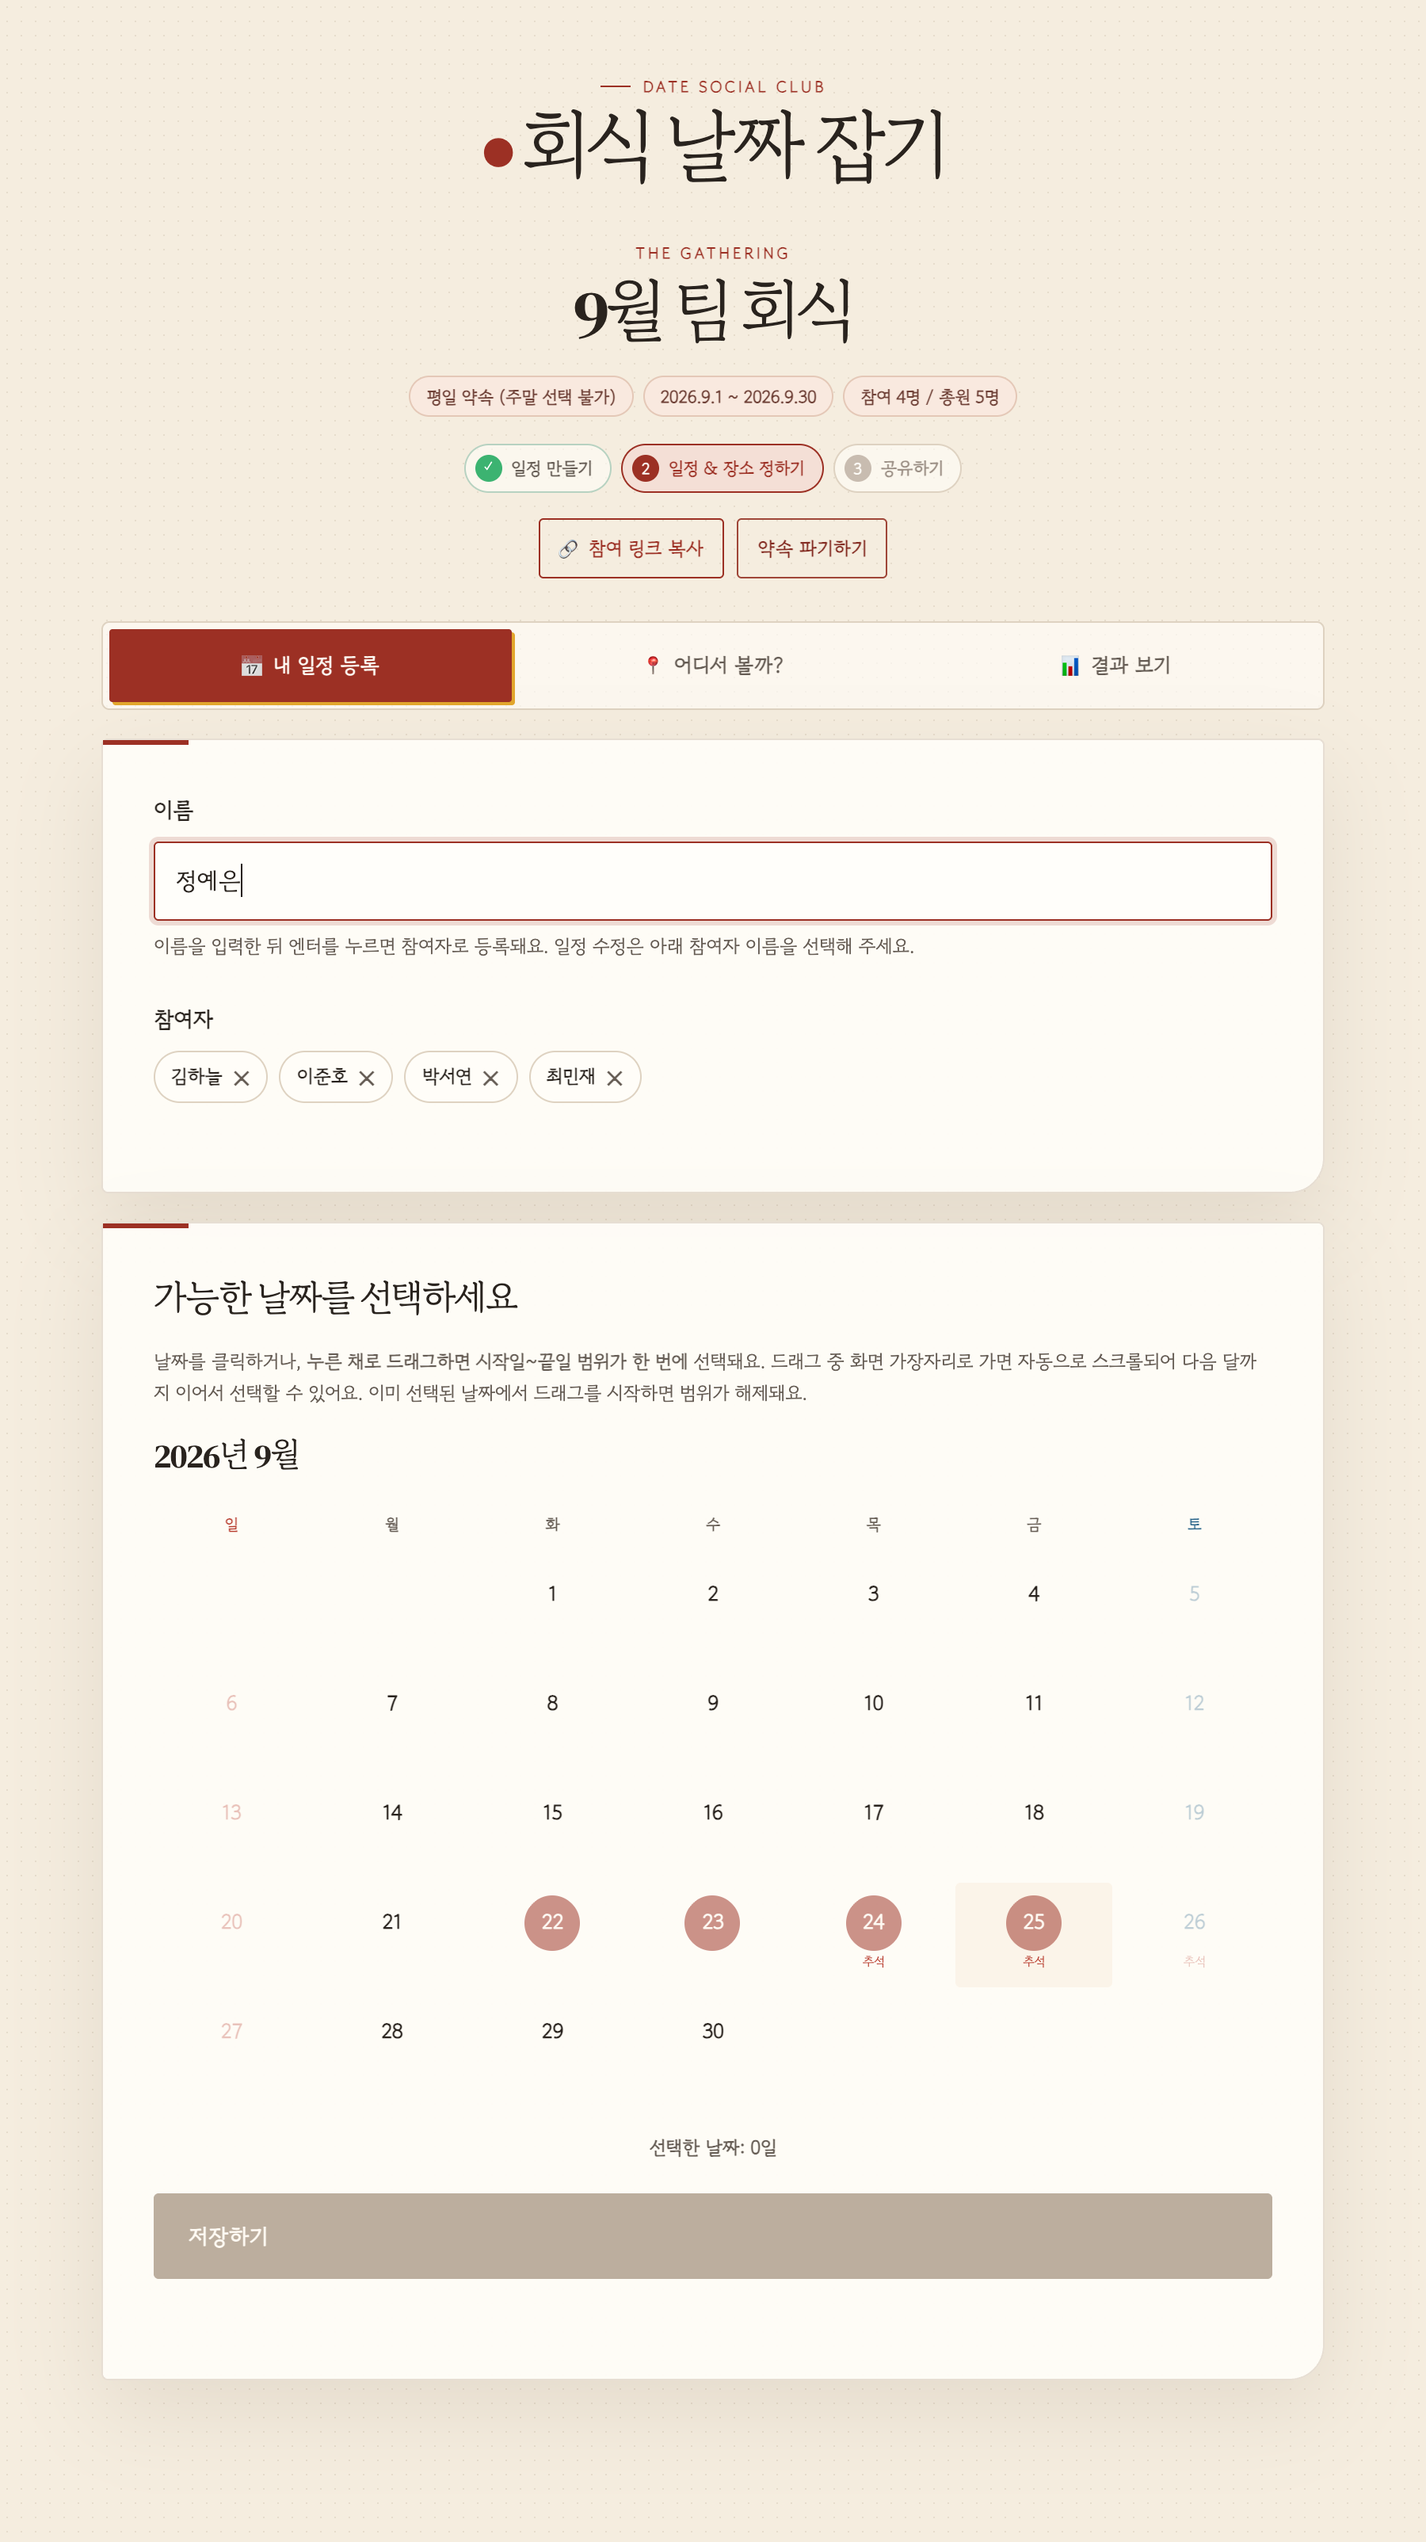
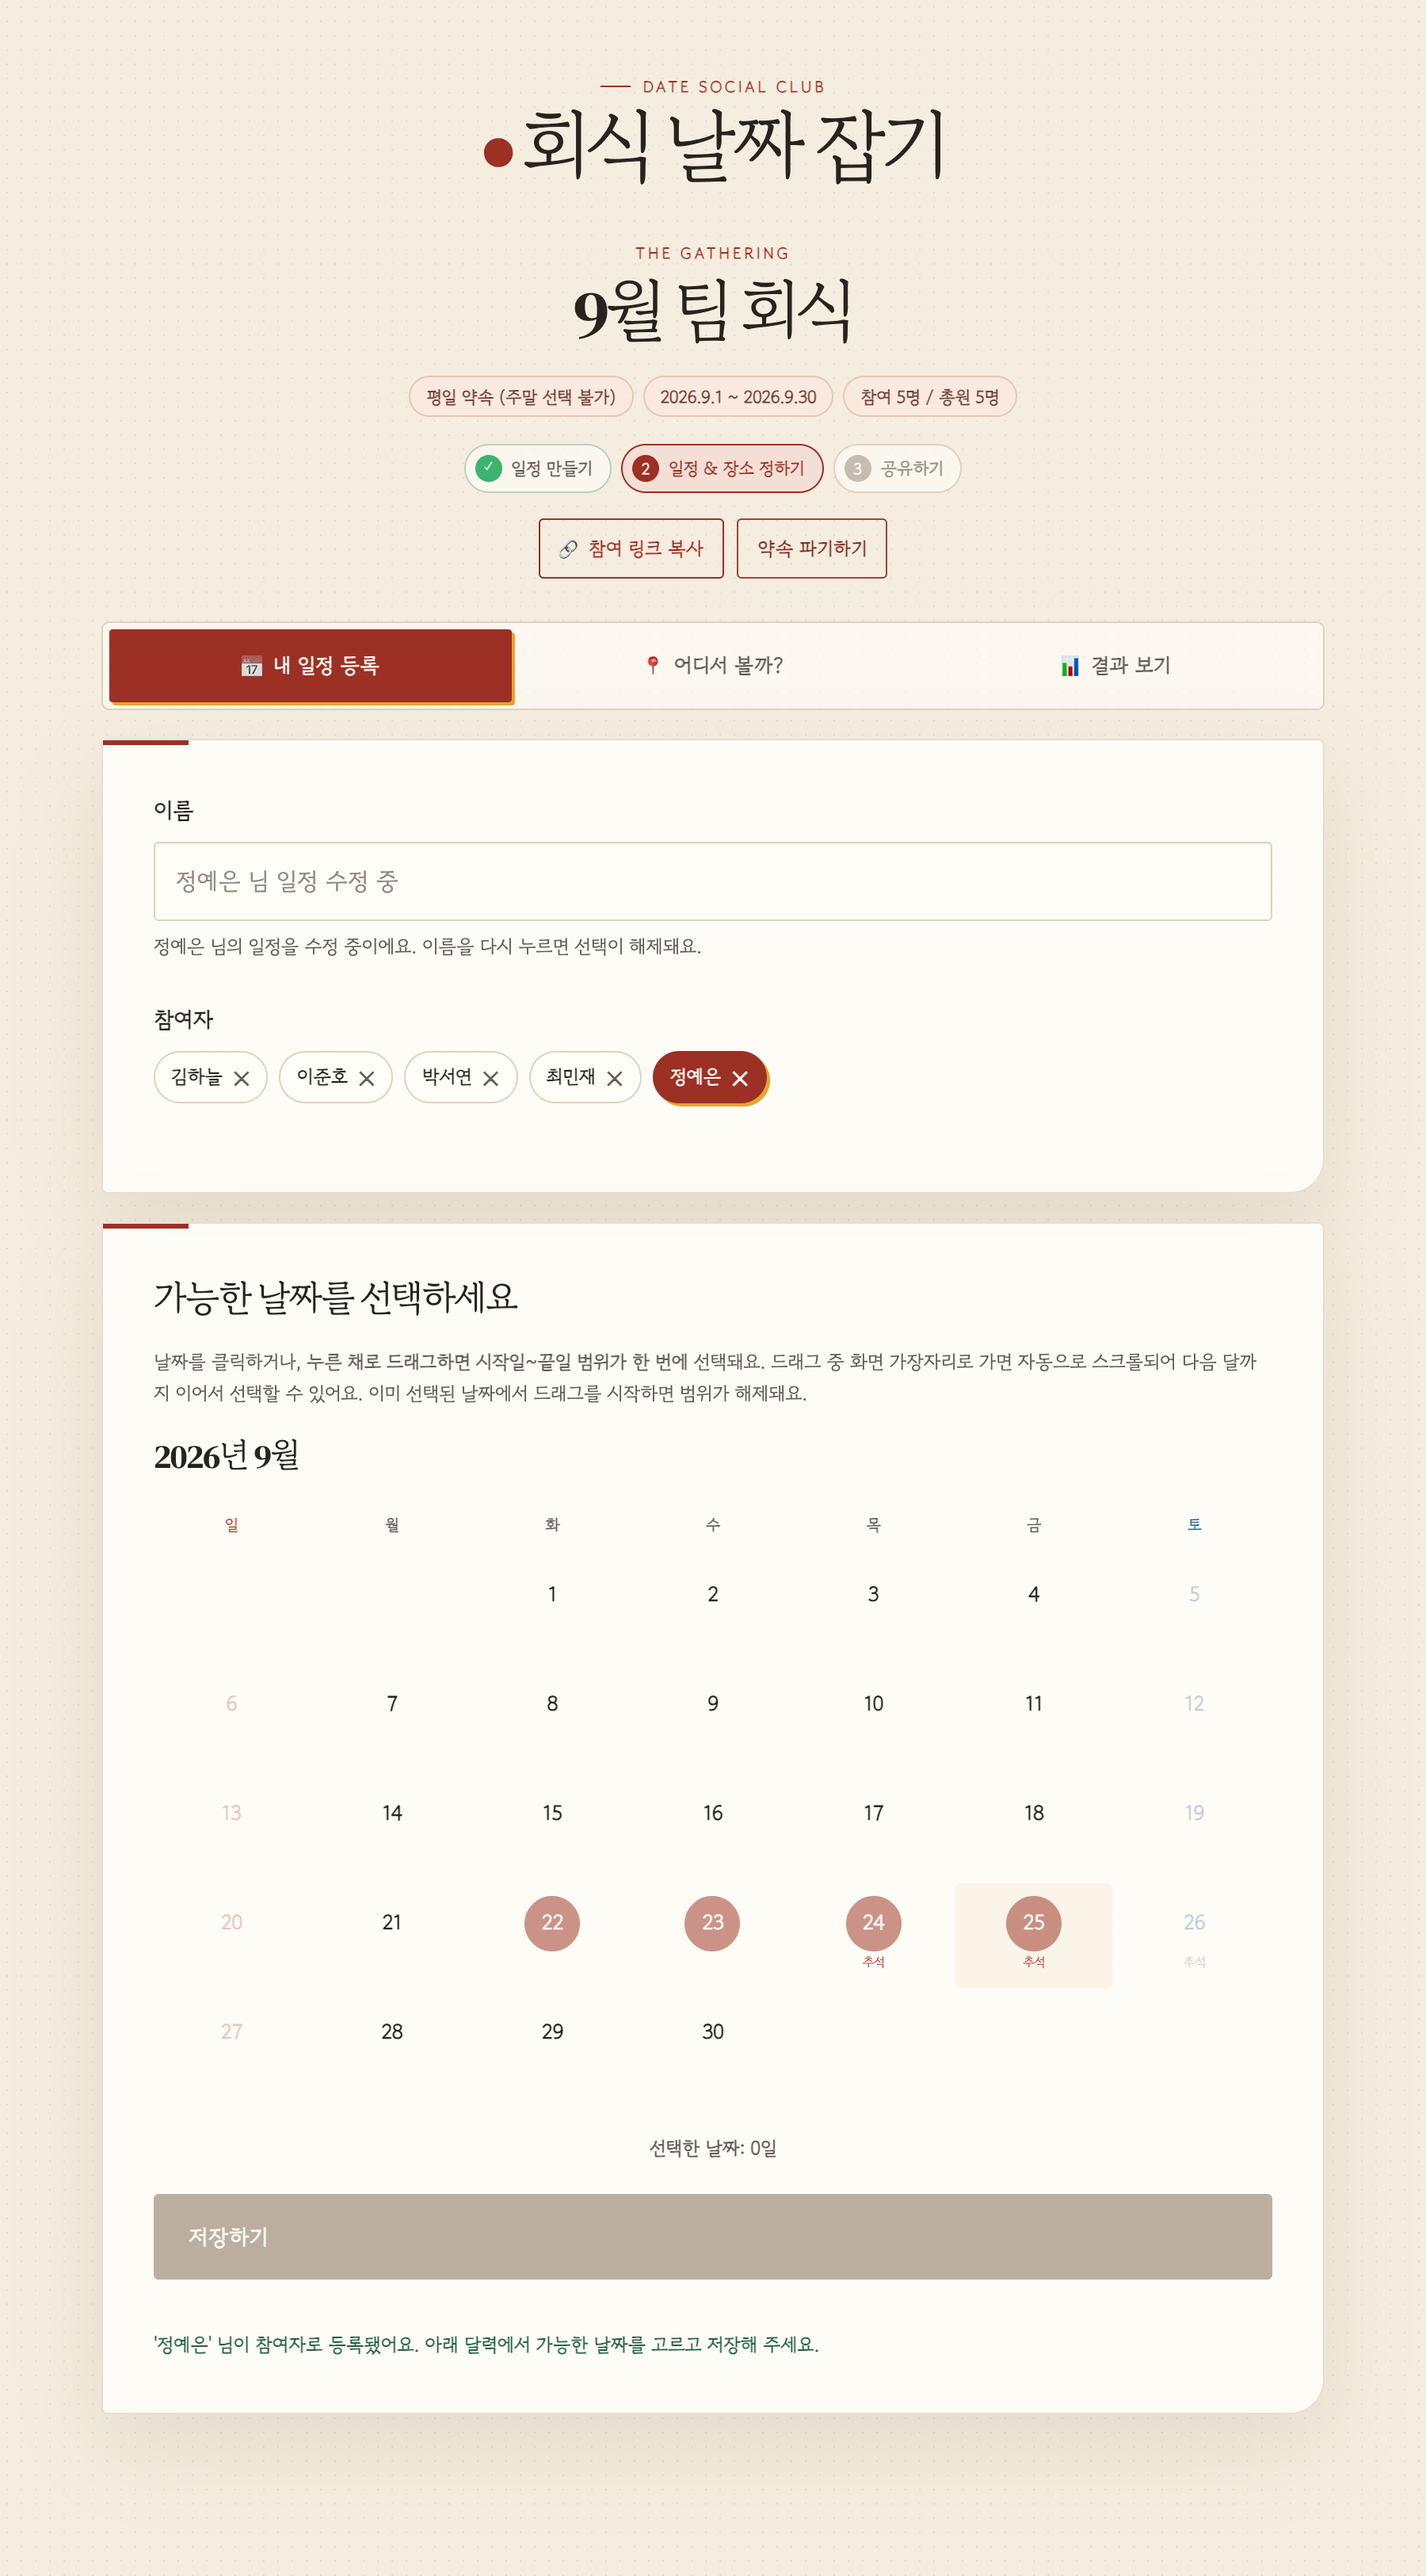
일정 등록 온보딩 개선: 참여자 선택 시에만 날짜 달력 표시
- 일정 등록 탭 진입 시 날짜 선택 달력을 숨기고, 이름 입력 후
  Enter로 등록하면 그 참여자가 자동 선택되며 달력이 열린다
- 선택된 참여자 칩을 다시 누르면 선택이 해제되고 달력이 닫힌다
  (삭제·원격 삭제·저장 완료 시에도 동일하게 정리)
- 달력 표시가 참여자 선택과 묶이면서 canSelect/저장 조건을
  참여자 선택 기준으로 단순화, 숨김 상태에서 플로팅 저장 바가
  뜨지 않도록 보정, 캡처 시나리오를 새 흐름에 맞게 수정

Claude-Session: https://claude.ai/code/session_018FYPPB8ih5HsNu38NPAV2M

diff --git a/public/js/event.js b/public/js/event.js
@@ -222,19 +222,19 @@ function syncNameInputState() {
   nameInput.disabled = atCapacity;
   if (activeParticipantName) {
     nameInput.placeholder = `${activeParticipantName} 님 일정 수정 중`;
-    hint.textContent = `${activeParticipantName} 님의 일정을 수정 중이에요. 선택한 날짜를 저장하면 반영됩니다.`;
+    hint.textContent = `${activeParticipantName} 님의 일정을 수정 중이에요. 이름을 다시 누르면 선택이 해제돼요.`;
   } else if (atCapacity) {
     nameInput.value = '';
     nameInput.placeholder = '총원 등록 완료';
     hint.textContent = `총원 ${eventData.totalCount}명이 모두 등록됐어요. 참여자 이름을 선택하면 일정을 수정할 수 있어요.`;
   } else {
     nameInput.placeholder = '이름을 입력하세요';
-    hint.textContent = '이름을 입력한 뒤 엔터를 누르면 참여자로 등록돼요. 일정 수정은 아래 참여자 이름을 선택해 주세요.';
+    hint.textContent = '이름을 입력하고 엔터를 누르면 참여자로 등록되고, 바로 날짜를 고를 수 있어요. 등록된 일정은 참여자 이름을 눌러 수정해요.';
   }
 }
 
 function updateSaveState() {
-  const hasScheduleOwner = Boolean(activeParticipantName || $('name').value.trim());
+  const hasScheduleOwner = Boolean(activeParticipantName);
   const hasSelectedDates = voteCal && voteCal.selected.size > 0;
   const disabled = !hasScheduleOwner || !hasSelectedDates;
   $('save-btn').disabled = disabled;
@@ -414,20 +414,14 @@ async function saveMySchedule() {
     if (dates.length > 0) {
       // 다음 사람이 이어서 등록할 수 있게 이름과 선택을 즉시 비운다.
       $('name').value = '';
-      activeParticipantName = null;
-      voteCal.setSelected([]);
-      renderVotePeople();
-      syncNameInputState();
-      updateSelectedCount(0);
+      deactivateParticipant();
       switchTab('result');
     } else {
-      // 날짜 없이 엔터 등록한 뒤에는 이름 입력칸을 비우고, 참여자 뱃지로 일정 수정을 시작한다.
+      // 날짜 없이 엔터로 등록하면 그 사람을 바로 선택해 달력이 열리게 한다.
       $('name').value = '';
       activeParticipantName = null;
-      renderVotePeople();
-      syncNameInputState();
-      voteCal.render();
-      infoEl.textContent = `'${name}' 님이 참여자로 등록됐어요. 이름 뱃지를 선택해 가능한 날짜를 등록해 주세요.`;
+      activateParticipant(name);
+      infoEl.textContent = `'${name}' 님이 참여자로 등록됐어요. 아래 달력에서 가능한 날짜를 고르고 저장해 주세요.`;
     }
   } catch (err) {
     errorEl.textContent = err.message;
@@ -437,7 +431,28 @@ async function saveMySchedule() {
   }
 }
 
+// 날짜 선택 달력은 참여자가 선택돼 있을 때만 보여준다. (처음 온 사람이 헤매지 않도록)
+function syncCalendarVisibility() {
+  const hiddenNow = !activeParticipantName;
+  $('vote-calendar-card').hidden = hiddenNow;
+  if (hiddenNow) $('float-save').hidden = true;
+}
+
+function deactivateParticipant() {
+  activeParticipantName = null;
+  voteCal.setSelected([]);
+  renderVotePeople();
+  syncNameInputState();
+  updateSelectedCount(0);
+  syncCalendarVisibility();
+}
+
 function activateParticipant(name) {
+  // 이미 선택된 참여자를 다시 누르면 선택이 해제된다.
+  if (activeParticipantName === name) {
+    deactivateParticipant();
+    return;
+  }
   const participant = eventData.participants.find((p) => p.name === name);
   if (!participant) return;
 
@@ -447,6 +462,8 @@ function activateParticipant(name) {
   renderVotePeople();
   syncNameInputState();
   updateSelectedCount(participant.dates.length);
+  syncCalendarVisibility();
+  voteCal.render();
 }
 
 async function deleteParticipant(name) {
@@ -458,6 +475,7 @@ async function deleteParticipant(name) {
       activeParticipantName = null;
       $('name').value = '';
       voteCal.setSelected([]);
+      syncCalendarVisibility();
     }
     renderHead();
     renderVotePeople();
@@ -1429,6 +1447,10 @@ let syncStopped = false;
 // 서버 데이터에서 오는 화면만 다시 그린다.
 function applyRemoteUpdate(fresh) {
   eventData = fresh;
+  // 수정하려던 참여자가 다른 곳에서 삭제됐으면 선택을 해제한다.
+  if (activeParticipantName && !fresh.participants.some((p) => p.name === activeParticipantName)) {
+    deactivateParticipant();
+  }
   syncConfirmState(); // 헤더·단계·토글 (renderHead 포함)
   renderVotePeople();
   syncNameInputState();
@@ -1479,7 +1501,7 @@ async function init() {
     mode: 'select',
     startDate: range.startDate,
     endDate: range.endDate,
-    canSelect: () => Boolean(activeParticipantName || $('name').value.trim()),
+    canSelect: () => Boolean(activeParticipantName),
     onChange: (sel) => {
       updateSelectedCount(sel.size);
     },
@@ -1516,13 +1538,7 @@ async function init() {
 
   // 기존 참여자를 선택한 뒤 새 이름을 입력하면 새 참여자 등록 흐름으로 전환한다.
   $('name').addEventListener('input', () => {
-    if (activeParticipantName) {
-      activeParticipantName = null;
-      voteCal.setSelected([]);
-      renderVotePeople();
-      syncNameInputState();
-    }
-    voteCal.render();
+    if (activeParticipantName) deactivateParticipant();
     updateSaveState();
   });
 
@@ -1532,7 +1548,7 @@ async function init() {
   const floatEl = $('float-save');
   new IntersectionObserver(
     ([entry]) => {
-      floatEl.hidden = entry.isIntersecting;
+      floatEl.hidden = entry.isIntersecting || $('vote-calendar-card').hidden;
     },
     { rootMargin: '0px 0px -8px 0px' }
   ).observe($('save-btn'));

diff --git a/public/event.html b/public/event.html
@@ -47,7 +47,7 @@
           <div class="field">
             <label for="name">이름</label>
             <input type="text" id="name" placeholder="이름을 입력하세요" maxlength="20" />
-            <p class="hint" id="name-hint">이름을 입력한 뒤 엔터를 누르면 참여자로 등록돼요. 일정 수정은 아래 참여자 이름을 선택해 주세요.</p>
+            <p class="hint" id="name-hint">이름을 입력하고 엔터를 누르면 참여자로 등록되고, 바로 날짜를 고를 수 있어요.</p>
           </div>
           <div class="field" id="vote-people-wrap">
             <label>참여자</label>
@@ -55,7 +55,7 @@
           </div>
         </div>
 
-        <div class="card">
+        <div class="card" id="vote-calendar-card" hidden>
           <h2>가능한 날짜를 선택하세요</h2>
           <p class="hint" style="margin-bottom: 12px;">
             날짜를 클릭하거나, <b>누른 채로 드래그하면 시작일~끝일 범위가 한 번에</b> 선택돼요.

diff --git a/README.md b/README.md
@@ -29,7 +29,7 @@
 | 회식 날 후보 순위 | 결과 탭 상단에서 가능 인원이 많은 순으로 1~3위 후보를 보여줍니다. 동점 날짜는 같은 순위에 묶어 `1위: 1/1, 1/2` 형식으로 표시합니다. **일정이 확정되면 이 카드가 초록 '확정된 일정' 카드로 전환**되어 확정 날짜·시간을 보여줍니다. |
 | 회식 장소 후보 순위 | 결과 탭의 날짜 순위 카드 아래에서 **좋아요(투표) 상위 5곳**을 보여주고, 후보가 더 많으면 **전체 후보 보기** 버튼으로 전체 순위 팝업을 엽니다. **각 후보 행을 누르면 지도가 새 창으로** 열립니다(공유 링크가 있으면 그 링크, 없으면 네이버 지도 검색). **장소가 확정되면 초록 '확정된 장소' 카드로 전환**되어 이름·주소·지도 링크를 보여줍니다. |
 | 참여 정원 관리 | 참여자가 총원에 도달하면 새 이름 입력을 비활성화하고, API도 총원 초과 등록을 거부합니다. |
-| 일정 등록·수정 | 새 이름은 Enter로 먼저 참여 등록할 수 있습니다. 기존 일정은 참여자 칩을 선택해 수정하며, ✕로 삭제할 수 있습니다. |
+| 일정 등록·수정 | 이름을 입력하고 Enter를 누르면 참여자로 등록되면서 **자동으로 선택되고 날짜 달력이 열립니다**. 달력은 참여자가 선택된 동안에만 보이며, 선택된 칩을 다시 누르면 해제(달력 숨김)됩니다. 기존 일정은 참여자 칩을 눌러 수정하고 ✕로 삭제합니다. |
 | 실시간 동기화 | 페이지를 열어두면 다른 참여자의 등록·투표·장소 추가·확정이 **10초 이내에 자동 반영**됩니다(탭이 다시 보이면 즉시 갱신, 변경이 있을 때만 다시 그림). 입력 중인 달력 선택·검색어는 보존됩니다. D1에는 변경 푸시 채널이 없어 SSE 대신 변경 감지 폴링으로 구현했습니다. |
 | 관리 비밀번호 | 약속을 만들 때 **숫자 4~6자리 관리 비밀번호**를 정합니다. **일정·장소 확정과 그 취소, 약속 파기**에 사용하며, 서버에는 약속별 랜덤 salt를 붙인 **SHA-256 해시로만 저장**되고 조회 API 응답에서도 제외됩니다. |
 | 공유하기 | **일정·장소가 모두 확정되는 순간 공유 다이얼로그가 자동으로 열리고**, 이후엔 상단 **3 공유하기 배지**로 다시 엽니다. **다른 앱으로 일정 공유하기** 한 줄에 **카카오톡 공유**(친구/채팅방 선택, 키 없으면 모바일 공유 시트·문구 복사 폴백)와 **팀즈로 공유**(Teams 공유 창에서 채널·채팅 선택) 버튼이 나란히 있고, **자동 게시(고급)** 는 웹후크 URL로 확정 카드를 자동 게시합니다. 서버도 미확정 상태의 공유 요청은 `409`로 거부합니다. |
